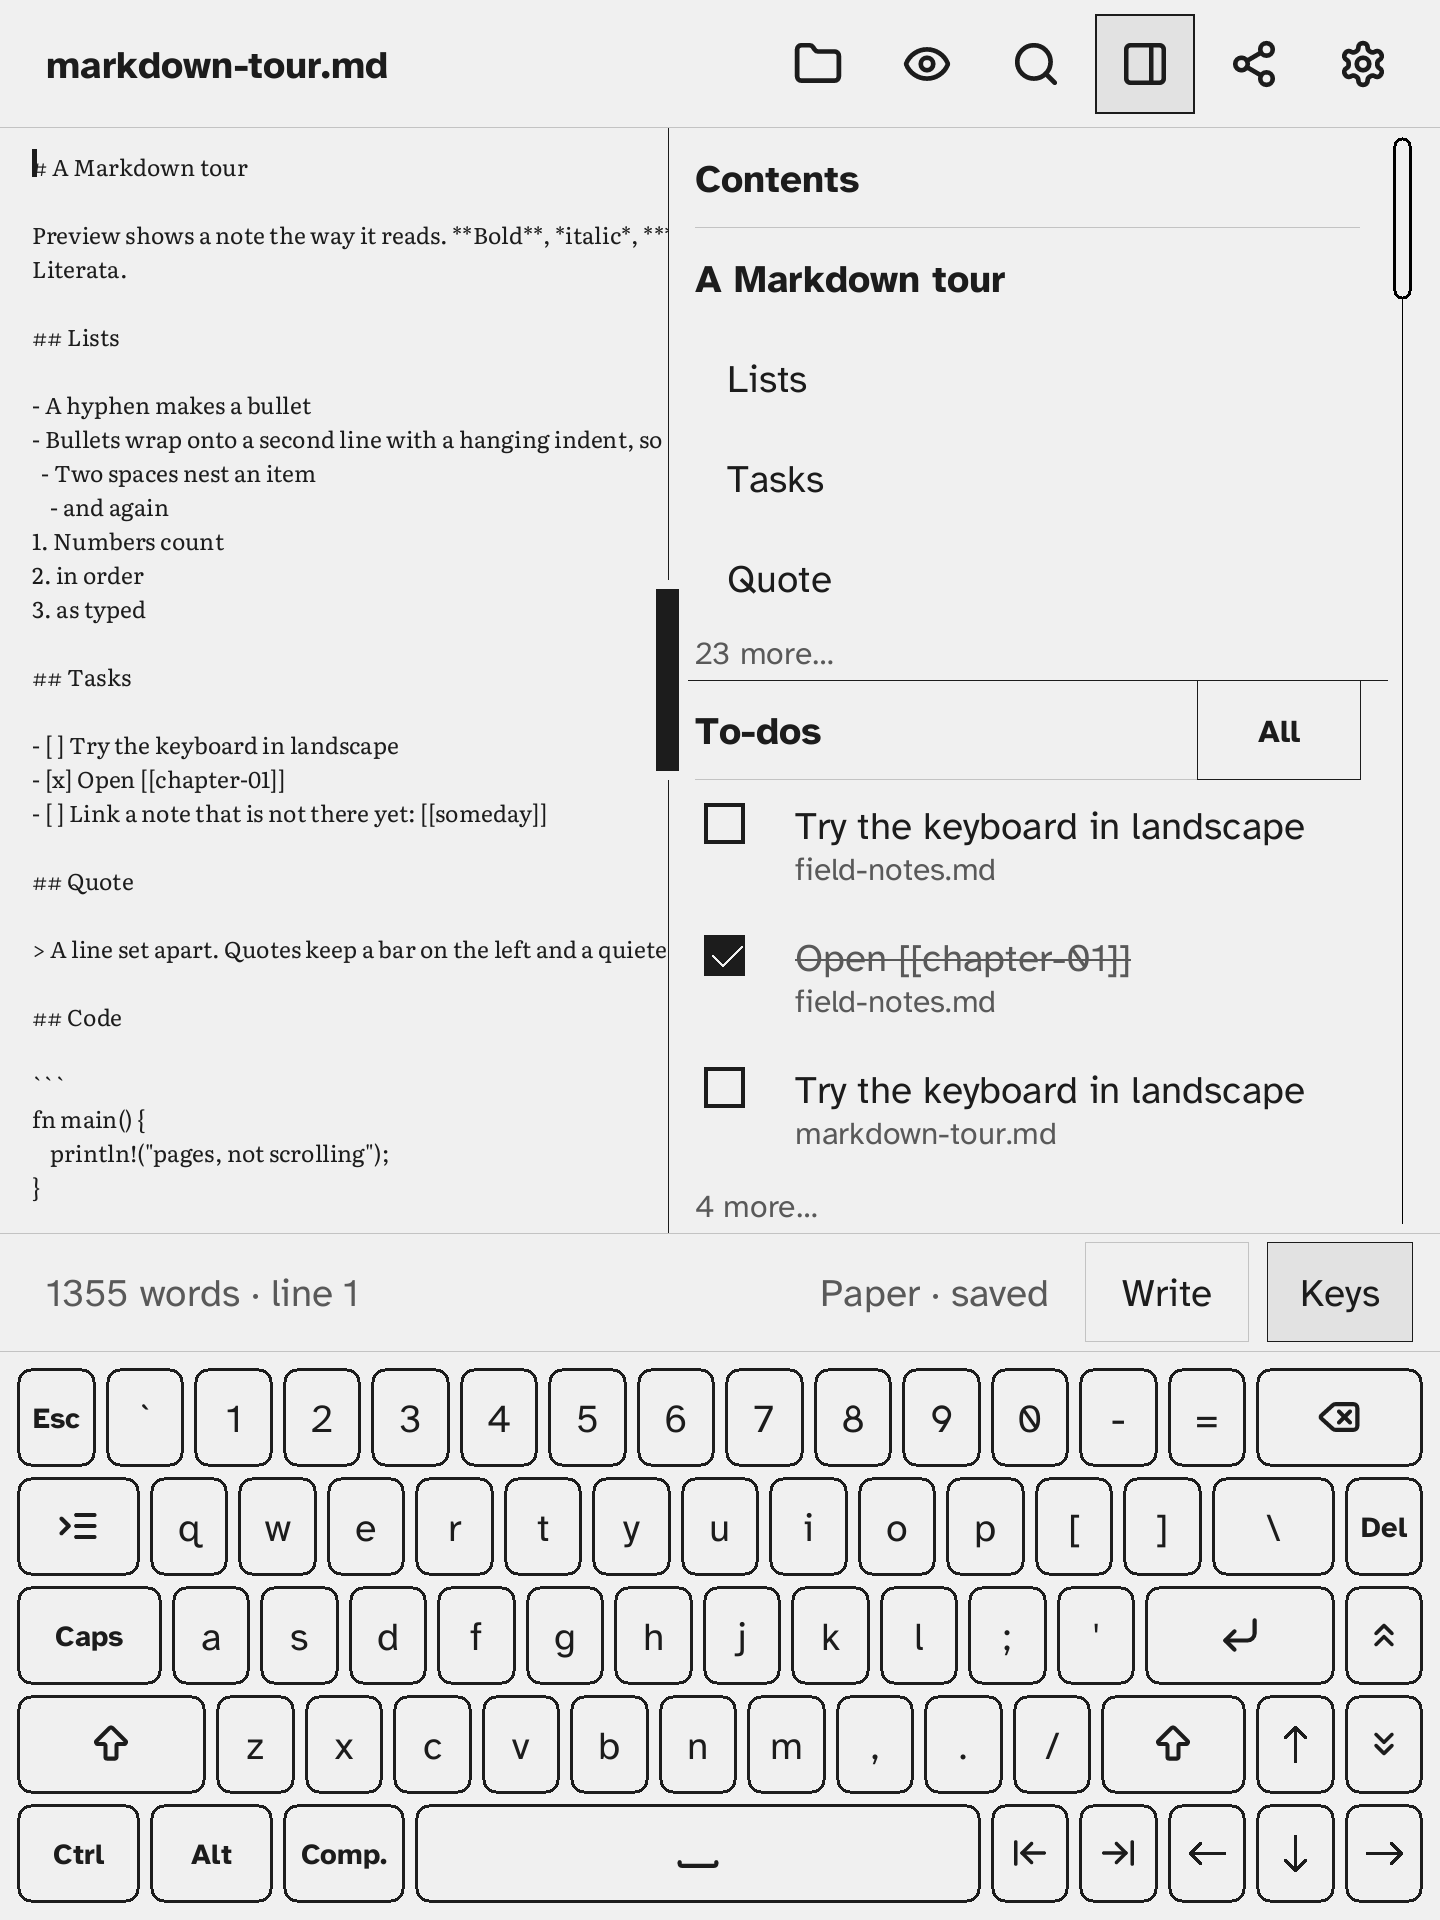
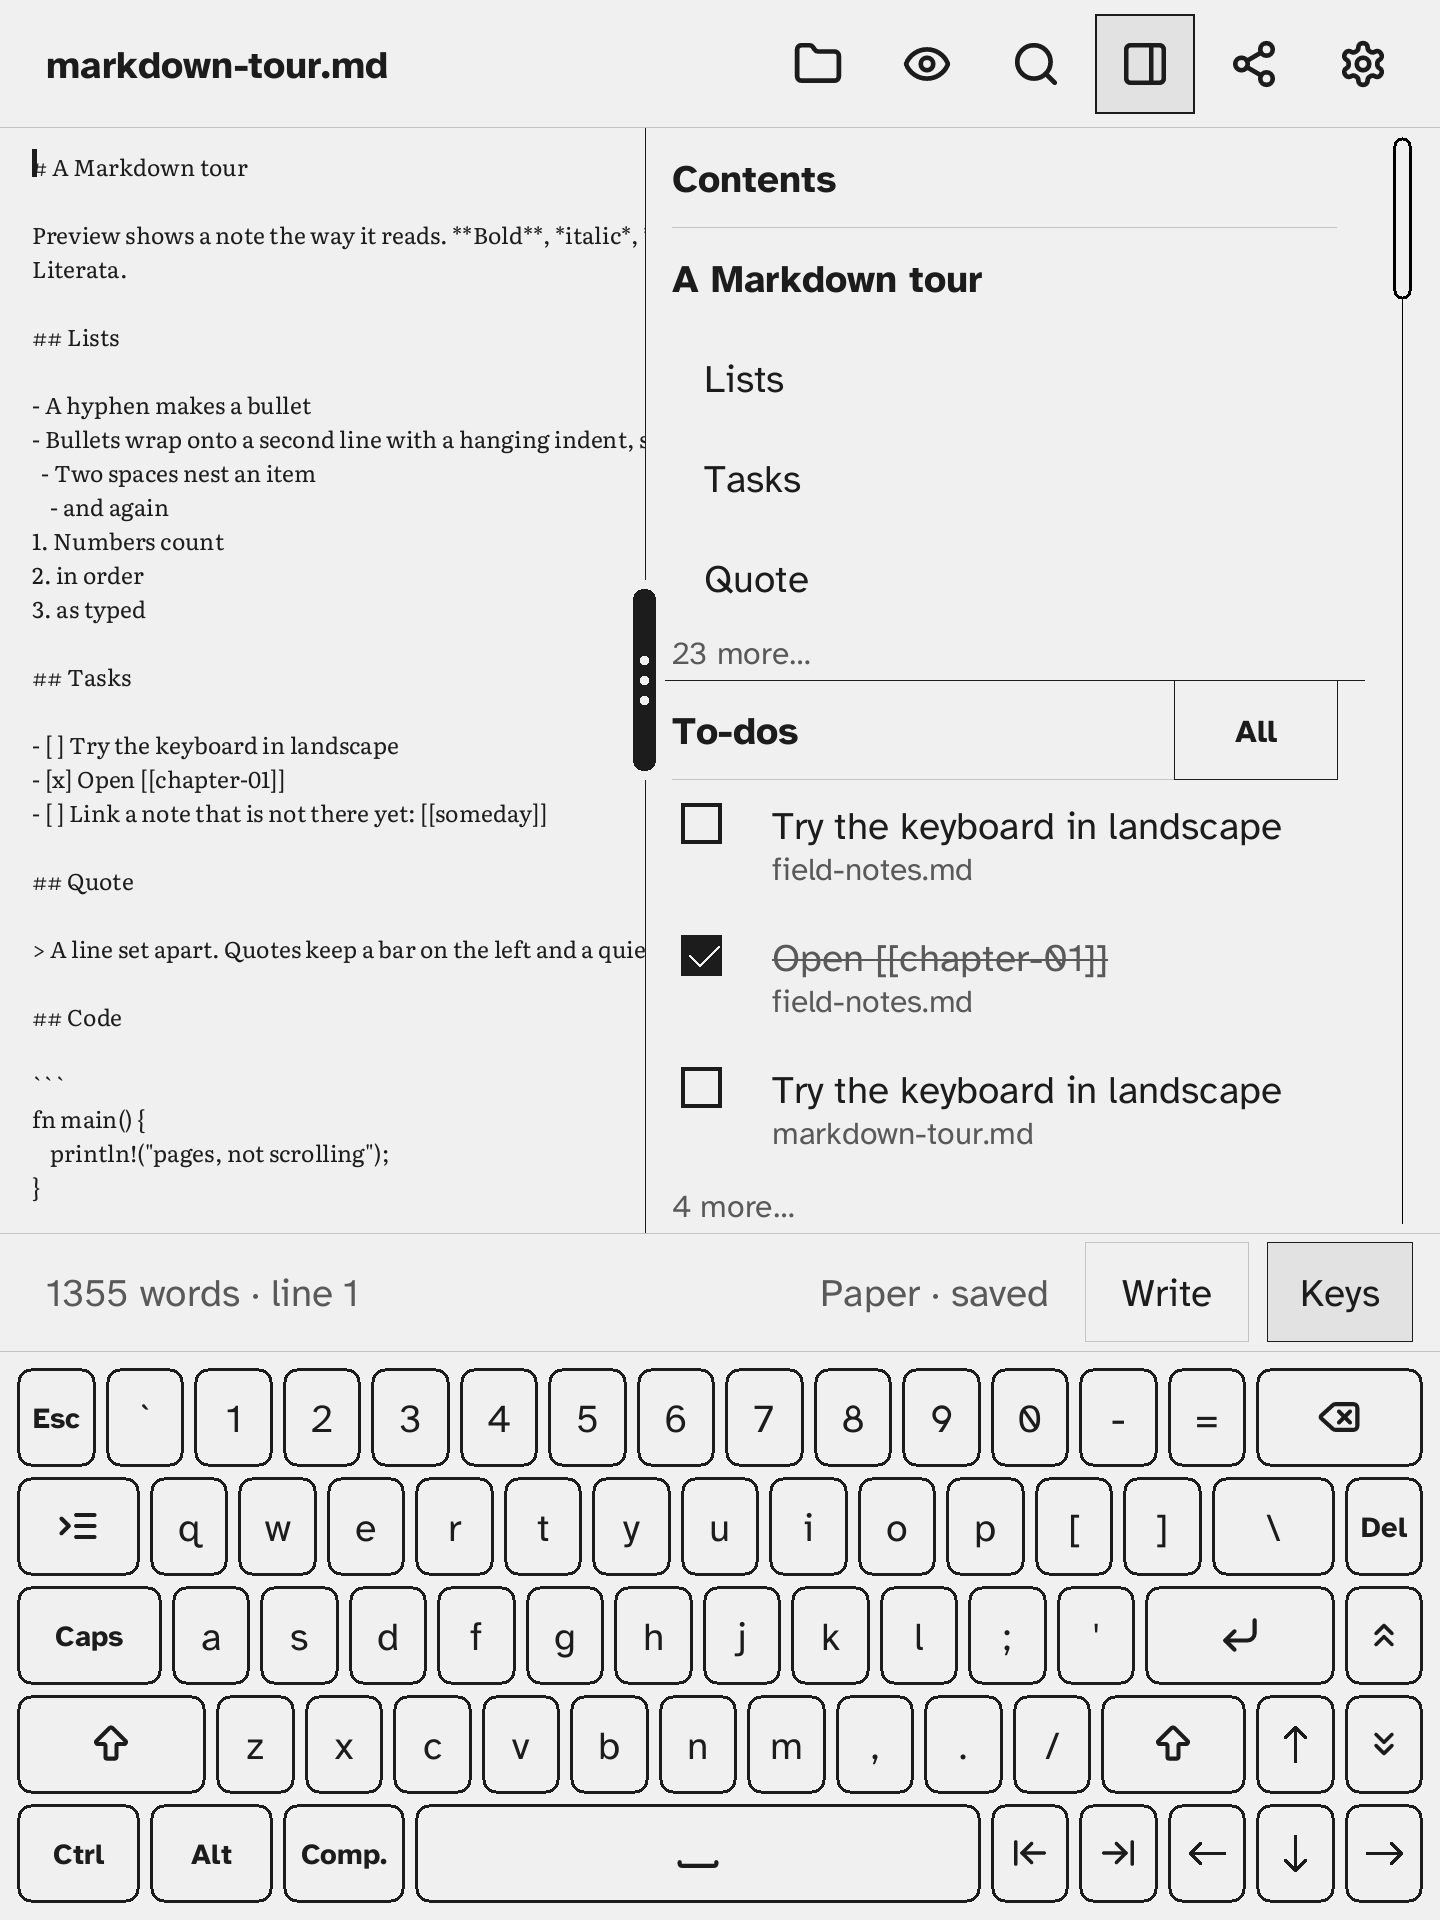
Match the drawer's gap to the bar's margin; keep the tab off the bar; grippy grip
A drawer on the right now ends as far from the scroll bar as the bar is
from the screen edge. Closed from its grip, its tab stays where the
drawer's outer edge was, left of the bar, instead of on it. The grip and
the tab get rounded ends and three white dots down the middle.

diff --git a/crates/render/src/drawer.rs b/crates/render/src/drawer.rs
@@ -7,6 +7,7 @@
 use crate::canvas::{Canvas, Rect};
 use crate::editor::{EditorScreen, Layout};
 use crate::fonts::{Face, Measure};
+use crate::graphmap::fill_round;
 use crate::i18n::tr;
 use crate::theme::Theme;
 use sigma_core::outline::{Filter, Heading, TodoItem};
@@ -208,9 +209,24 @@ impl EditorScreen {
         let z = self.drawer_handle(base, side);
         let (bw, bh) = (self.d(10.0), self.d(80.0));
         let bar = Rect::new(z.x + (z.w - bw) / 2, z.y + (z.h - bh) / 2, bw, bh);
+        self.draw_grip(c, bar, t);
+    }
+
+    /// The grip's look, for the open drawer's grip and the closed one's tab
+    /// (v1.16): a bar with fully rounded ends on a white rim, and three
+    /// white dots down its middle so it reads as something to hold.
+    fn draw_grip(&self, c: &mut Canvas, bar: Rect, t: Theme) {
         let pad = self.d(4.0);
-        c.fill(bar.inset(-pad), t.paper);
-        c.fill(bar, t.ink);
+        fill_round(c, bar.inset(-pad), bar.w / 2 + pad, t.paper);
+        fill_round(c, bar, bar.w / 2, t.ink);
+        let dot = (bar.w * 2 / 5).max(2);
+        let step = dot + self.d(5.0);
+        let x = bar.x + (bar.w - dot) / 2;
+        let y0 = bar.y + bar.h / 2 - dot / 2 - step;
+        for i in 0..3 {
+            let r = Rect::new(x, y0 + i * step, dot, dot);
+            fill_round(c, r, dot / 2, t.paper);
+        }
     }
 
     /// A grip dragged to screen column `x` closes the drawer (v1.16): the
@@ -225,22 +241,23 @@ impl EditorScreen {
         }
     }
 
-    /// The tab left at the screen edge while the drawer is closed from its
-    /// grip (v1.16): a finger wide, as tall as the grip's area, mid-page,
-    /// inside the page on the drawer's side.
+    /// The tab left where the drawer's outer edge was while it is closed
+    /// from its grip (v1.16): on the right, left of the scroll bar's strip
+    /// (and its margin), never on the bar; on the left, at the screen edge.
+    /// A finger wide, as tall as the grip's area, mid-page.
     #[must_use]
     pub fn drawer_tab(&self, base: &Layout, side: Side) -> Rect {
         let p = base.page;
         let (w, h) = (self.d(44.0), self.d(150.0));
         let x = match side {
             Side::Left => p.x,
-            Side::Right => p.x + p.w - w,
+            Side::Right => self.drawer_right(base) - w,
         };
         Rect::new(x, p.y + (p.h - h) / 2, w, h)
     }
 
-    /// Draws the tab: the grip's bar tucked against the screen edge, white
-    /// on its inner side so it stays visible over the text and the scroll bar.
+    /// Draws the tab: the grip's bar against the drawer's outer edge, white
+    /// on its inner side so it stays visible over the text.
     pub fn draw_drawer_tab(&self, c: &mut Canvas, base: &Layout, side: Side, t: Theme) {
         let z = self.drawer_tab(base, side);
         let (bw, bh) = (self.d(10.0), self.d(80.0));
@@ -249,13 +266,11 @@ impl EditorScreen {
             Side::Right => z.x + z.w - bw,
         };
         let bar = Rect::new(x, z.y + (z.h - bh) / 2, bw, bh);
-        let pad = self.d(4.0);
-        c.fill(bar.inset(-pad).intersect(&base.page), t.paper);
-        c.fill(bar, t.ink);
+        self.draw_grip(c, bar, t);
     }
 
     /// Where a drawer on the right ends (v1.16): left of the scroll bar's
-    /// strip, which stays the bar's (the bar is on the right in every
+    /// strip and a margin as wide as the bar's own, which stay the bar's (the bar is on the right in every
     /// language; a drawer on the left never meets it).
     fn drawer_right(&self, base: &Layout) -> i32 {
         let p = base.page;
@@ -696,6 +711,40 @@ mod tests {
     use super::*;
     use sigma_core::outline::{headings, Todo};
     use sigma_core::{Keyboard, NotePath};
+
+    #[test]
+    fn the_grip_and_the_tab_are_rounded_with_three_white_dots() {
+        let e = EditorScreen::new(1440, 1920);
+        let t = Theme::DAY;
+        let base = e.layout(true, &Keyboard::default());
+        let px = |c: &Canvas, x: i32, y: i32| c.pixels[(y * c.width as i32 + x) as usize];
+        let (bw, bh) = (e.d(10.0), e.d(80.0));
+        for tab in [false, true] {
+            let mut c = Canvas::new(1440, 1920, t.paper);
+            let z = if tab {
+                e.draw_drawer_tab(&mut c, &base, Side::Right, t);
+                e.drawer_tab(&base, Side::Right)
+            } else {
+                e.draw_drawer_handle(&mut c, &base, Side::Right, t);
+                e.drawer_handle(&base, Side::Right)
+            };
+            let x = if tab {
+                z.x + z.w - bw
+            } else {
+                z.x + (z.w - bw) / 2
+            };
+            let bar = Rect::new(x, z.y + (z.h - bh) / 2, bw, bh);
+            let (cx, cy) = (bar.x + bar.w / 2, bar.y + bar.h / 2);
+            assert_eq!(px(&c, bar.x, bar.y), t.paper, "{tab}: rounded corner");
+            assert_eq!(px(&c, cx, bar.y + 2), t.ink, "{tab}: solid at the top");
+            // Three dots down the middle: white, ink, white, ink, white.
+            let col: Vec<u8> = (bar.y..bar.y + bar.h).map(|y| px(&c, cx, y)).collect();
+            let runs = col.windows(2).filter(|w| w[0] != w[1]).count();
+            assert_eq!(runs, 6, "{tab}: three dots make six edges");
+            assert_eq!(px(&c, cx, cy), t.paper, "{tab}: the middle dot");
+            assert_eq!(px(&c, bar.x + 1, cy), t.ink, "{tab}: beside the dot");
+        }
+    }
 
     fn items() -> Vec<TodoItem> {
         (0..30)

diff --git a/crates/render/src/editor.rs b/crates/render/src/editor.rs
@@ -2824,12 +2824,17 @@ mod scroll_bar_tests {
         let d = e.drawer_rect(&base, Side::Right);
         let (zone, _) = e.scroll_bar_zone(&b, page).unwrap();
         assert_eq!(zone, alone, "the bar does not move");
+        let (strip, _) = e.scroll_bar(page, 300, 10).unwrap();
+        let edge_gap = page.x + page.w - (strip.x + strip.w);
         assert_eq!(
-            d.x + d.w,
-            zone.x,
-            "the drawer ends where the bar's zone starts"
+            strip.x - (d.x + d.w),
+            edge_gap,
+            "as far from the drawer as from the edge"
         );
-        assert_eq!(zone.w, crate::scrollbar::reserve(e.page_s));
+        assert!(d.x + d.w < zone.x, "the drawer is off the bar's touch zone");
+        // Closed from the grip: the tab stays where the drawer's edge was.
+        let tab = e.drawer_tab(&base, Side::Right);
+        assert_eq!(tab.x + tab.w, d.x + d.w, "left of the bar and its margin");
         // On the left the drawer never meets the bar: flush with the page.
         e.cfg.drawer = Side::Left;
         assert_eq!(e.drawer_rect(&base, Side::Left).x, page.x);

diff --git a/crates/render/src/scrollbar.rs b/crates/render/src/scrollbar.rs
@@ -93,11 +93,13 @@ pub fn bar(
     Some((strip, thumb(strip, total, visible, at, m.min_thumb)))
 }
 
-/// The width the bar's touch zone takes at the right of a page (v1.16): a
-/// drawer on the right stays left of it, so it never covers the bar.
+/// The width kept for the bar at the right of a page (v1.16): the strip
+/// with its margin on both sides, so a drawer on the right ends as far from
+/// the bar as the bar is from the screen edge, and never covers it.
 #[must_use]
 pub fn reserve(s: crate::theme::Scale) -> i32 {
-    Metrics::new(s).clearance() + s.px(4.0)
+    let m = Metrics::new(s);
+    m.clearance() + m.margin
 }
 
 /// Where a finger grabs a bar: the strip widened to a touch target, out to

diff --git a/app/tests/drawer_handle.rs b/app/tests/drawer_handle.rs
@@ -114,7 +114,9 @@ fn a_double_tap_on_the_grip_closes_the_drawer_and_the_tab_brings_it_back() {
         .control_centre("DrawerTab")
         .expect("the tab at the edge");
     let page = app.page_rect();
-    assert!(tab.0 > page.x + page.w * 9 / 10, "on the right edge");
+    assert!(tab.0 > page.x + page.w * 8 / 10, "on the right");
+    let edge = page.x + page.w - app.drawer_width_px();
+    assert!(tab.0 > edge, "where the drawer's outer edge was");
     tap_at(&mut app, &mut dev, tab, 3000);
     assert_eq!(app.drawer, [true, false, true], "the same panes");
     assert!(app.scratch_focus, "and the same focus");

diff --git a/CHANGELOG.md b/CHANGELOG.md
@@ -4,7 +4,7 @@ All notable changes to Σscribe. Versions are tagged after they pass on the Kobo
 
 ## Unreleased
 
-- **Close the drawer from its grip, reopen it from the edge.** A double tap on the drawer's grip (or a double click with a mouse or touchpad), or dragging the grip to the screen edge, closes the whole drawer. A tab stays at the screen edge on the drawer's side; tap it to bring back the same panes (and the scratch focus), or drag it in to reopen at the width where the finger lifts. Ticking a pane in the drawer menu forgets what the grip closed. The tab sits over that bit of the scroll bar; the rest of the bar works as before. What the grip closed is not kept across a restart. The scroll bar keeps its strip at the right of the page: a drawer on the right now ends left of it instead of covering it, in write mode and in preview (a drawer on the left never met it; the bar is on the right in every language). Emulator control `DrawerTab`. Tests in `app/tests/drawer_handle.rs`, `app/tests/drawer_menu.rs`, `app/tests/pointer.rs`.
+- **Close the drawer from its grip, reopen it from the edge.** A double tap on the drawer's grip (or a double click with a mouse or touchpad), or dragging the grip to the screen edge, closes the whole drawer. A tab stays where the drawer's outer edge was (on the right, left of the scroll bar; on the left, at the screen edge); tap it to bring back the same panes (and the scratch focus), or drag it in to reopen at the width where the finger lifts. Ticking a pane in the drawer menu forgets what the grip closed. The tab sits over that bit of the scroll bar; the rest of the bar works as before. What the grip closed is not kept across a restart. The grip (and the tab) now has rounded ends and three white dots down its middle. The scroll bar keeps its strip at the right of the page: a drawer on the right now ends left of it, as far from the bar as the bar is from the screen edge, instead of covering it, in write mode and in preview (a drawer on the left never met it; the bar is on the right in every language). Emulator control `DrawerTab`. Tests in `app/tests/drawer_handle.rs`, `app/tests/drawer_menu.rs`, `app/tests/pointer.rs`.
 
 - **One drawer button instead of three icons.** The title bar has a single drawer button (a panel on the drawer's side) where the Contents, To-dos and Scratch icons were. A tap opens a small menu under it with a checkbox, icon and name for each pane; tap rows to show or hide panes, the menu stays open for several. The button, Escape or a tap anywhere else closes it, and that tap does nothing else (no typing, no caret move). The button is shaded while a pane or the menu is open. Only panes whose plugin is on are listed; with none, the button goes. Works in write mode and preview. No new strings (the pane names were translated). New `sigma_render::drawer_menu` (`MenuHit`, `drawer_menu_rows`, `draw_drawer_menu`), `Hit::DrawerMenu` replaces `Hit::Drawer`, Lucide `panel-right` and `panel-left`; emulator control `Panels` and step `pane NAME`; `App::control_steps`. Tests: `crates/render/src/drawer_menu.rs`, `app/tests/drawer_menu.rs`.
 

diff --git a/docs/device-checklist-prerelease.md b/docs/device-checklist-prerelease.md
@@ -203,7 +203,8 @@ Installed on the Forma: **local build of `v1.13.1-write-fixes` (PR 48), head `a3
 ## Drawer button and menu (Unreleased, v1.16)
 - [ ] One panel button in the title bar where the three pane icons were; a tap opens the menu under it, the rows are full finger targets and the menu redraws cleanly (no ghost of it after it closes).
 - [ ] Ticking two panes keeps the menu open; a tap on the page or a key only closes it (no caret move, no letter); the button is shaded while a pane is open. Same in preview.
-- [ ] A double tap on the drawer's grip closes the drawer and leaves a tab at the screen edge; dragging the grip to the edge does the same. Tapping the tab brings back the same panes; dragging it in reopens at that width. Two slow taps do not close it. With the touchpad, a double click on the grip closes it.
+- [ ] A double tap on the drawer's grip closes the drawer and leaves a tab where its outer edge was (left of the scroll bar); dragging the grip to the edge does the same. Tapping the tab brings back the same panes; dragging it in reopens at that width. Two slow taps do not close it. With the touchpad, a double click on the grip closes it.
+- [ ] With the drawer open on the right, the scroll bar stays at the screen edge and works; the gap between the drawer and the bar matches the bar's margin to the edge. Same in preview (the page bar).
 
 ## Release gates (S9)
 - [ ] Install from the release tarball; update keeps notes; uninstall clean (S9 checklist). Still open; the local-build installs above were updates over the previous binary.
